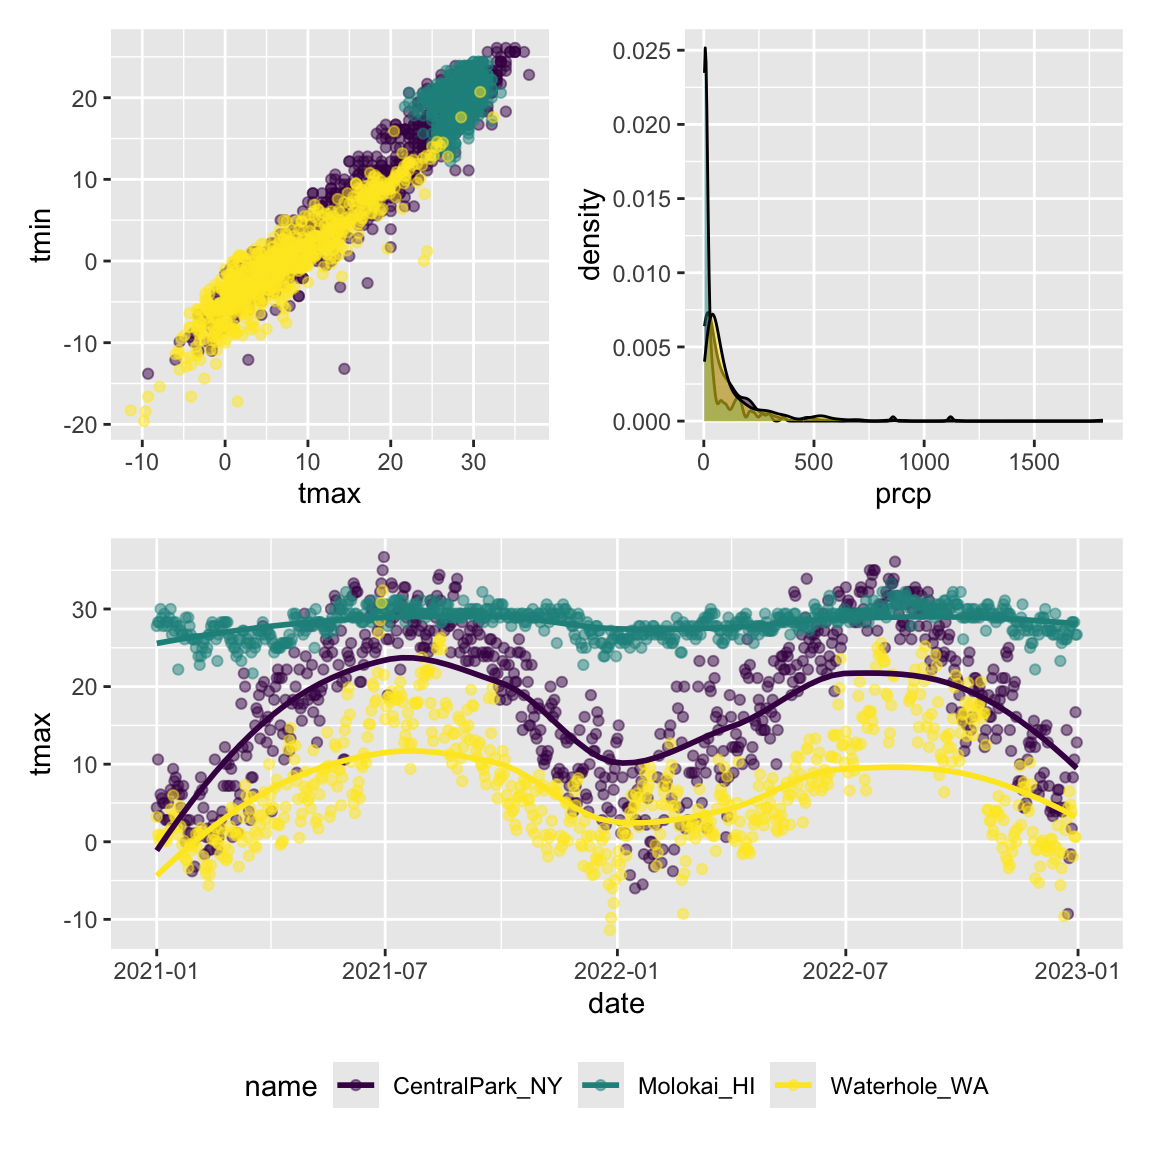
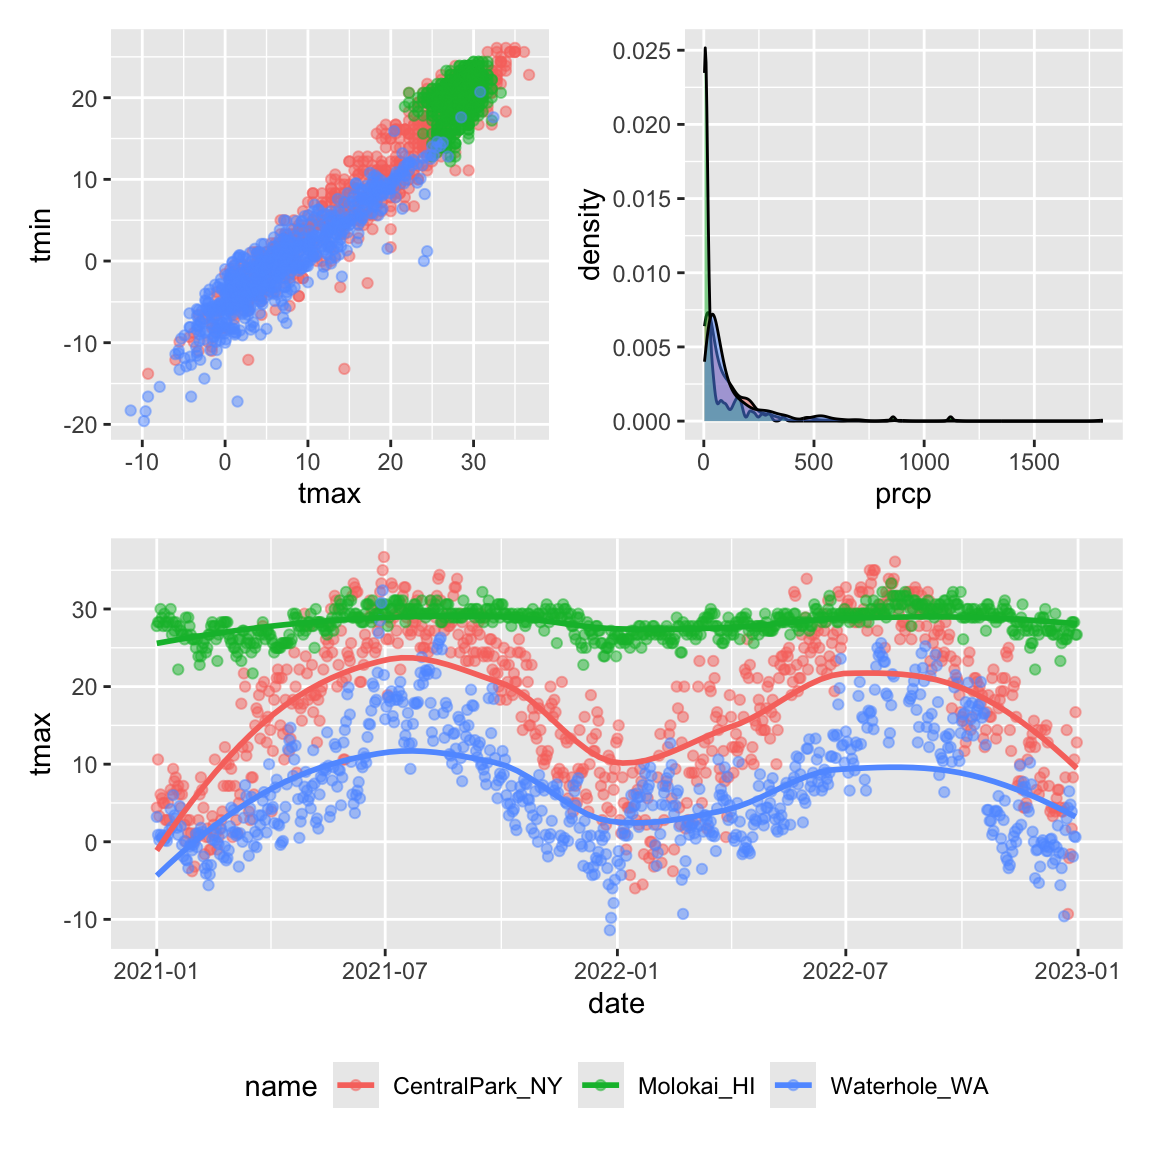
re-render so viridis isn't everywhere

diff --git a/visualization_pt2.html b/visualization_pt2.html
@@ -489,6 +489,16 @@ already I’ll add sub-directory called <code>data</code> and put <a
 href="./resources/data_import_examples.zip">these datasets</a> in
 there.</p>
 <pre class="r"><code>library(tidyverse)
+## ── Attaching core tidyverse packages ──────────────────────── tidyverse 2.0.0 ──
+## ✔ dplyr     1.2.1     ✔ readr     2.2.0
+## ✔ forcats   1.0.1     ✔ stringr   1.6.0
+## ✔ ggplot2   4.0.3     ✔ tibble    3.3.1
+## ✔ lubridate 1.9.5     ✔ tidyr     1.3.2
+## ✔ purrr     1.2.2     
+## ── Conflicts ────────────────────────────────────────── tidyverse_conflicts() ──
+## ✖ dplyr::filter() masks stats::filter()
+## ✖ dplyr::lag()    masks stats::lag()
+## ℹ Use the conflicted package (&lt;http://conflicted.r-lib.org/&gt;) to force all conflicts to become errors
 library(patchwork)</code></pre>
 <p>We’ll still work with NOAA weather data, which is loaded using the
 same code as in <a href="visualization_pt1.html">Visualization Pt
@@ -501,9 +511,7 @@ href="visualization_pt1.html">Visualization Pt 1</a>.</p>
 <pre class="r"><code>weather_df |&gt; 
   ggplot(aes(x = tmin, y = tmax)) + 
   geom_point(aes(color = name), alpha = .5)
-## Warning: Removed 17 rows containing
-## missing values or values
-## outside the scale range
+## Warning: Removed 17 rows containing missing values or values outside the scale range
 ## (`geom_point()`).</code></pre>
 <p><img src="visualization_pt2_files/figure-html/unnamed-chunk-4-1.png" alt="" width="90%" /></p>
 <div id="labels" class="section level3">
@@ -523,9 +531,7 @@ labels, plot titles, and captions, all of which can be controlled using
     color = &quot;Location&quot;,
     caption = &quot;Data from the rnoaa package&quot;
   )
-## Warning: Removed 17 rows containing
-## missing values or values
-## outside the scale range
+## Warning: Removed 17 rows containing missing values or values outside the scale range
 ## (`geom_point()`).</code></pre>
 <p><img src="visualization_pt2_files/figure-html/unnamed-chunk-5-1.png" alt="" width="90%" /></p>
 </div>
@@ -552,9 +558,7 @@ in <code>scale_x_*</code> and <code>scale_y_*</code> where
   scale_x_continuous(
     breaks = c(-15, 0, 15), 
     labels = c(&quot;-15º C&quot;, &quot;0&quot;, &quot;15&quot;))
-## Warning: Removed 17 rows containing
-## missing values or values
-## outside the scale range
+## Warning: Removed 17 rows containing missing values or values outside the scale range
 ## (`geom_point()`).</code></pre>
 <p><img src="visualization_pt2_files/figure-html/unnamed-chunk-6-1.png" alt="" width="90%" /></p>
 <p>There are a variety of other <code>scale_x_*</code> and
@@ -578,11 +582,9 @@ what I want.</p>
     trans = &quot;sqrt&quot;, 
     position = &quot;right&quot;)
 ## Warning in transformation$transform(x): NaNs produced
-## Warning in scale_y_continuous(trans = &quot;sqrt&quot;, position = &quot;right&quot;): sqrt transformation
-## introduced infinite values.
-## Warning: Removed 142 rows containing
-## missing values or values
-## outside the scale range
+## Warning in scale_y_continuous(trans = &quot;sqrt&quot;, position = &quot;right&quot;): sqrt
+## transformation introduced infinite values.
+## Warning: Removed 142 rows containing missing values or values outside the scale range
 ## (`geom_point()`).</code></pre>
 <p><img src="visualization_pt2_files/figure-html/unnamed-chunk-7-1.png" alt="" width="90%" /></p>
 <p>For many graph options there are several ways to produce the desired
@@ -606,9 +608,7 @@ color scale and the name in the plot legend.</p>
     color = &quot;Location&quot;,
     caption = &quot;Data from the rnoaa package&quot;) + 
   scale_color_hue(h = c(100, 300))
-## Warning: Removed 17 rows containing
-## missing values or values
-## outside the scale range
+## Warning: Removed 17 rows containing missing values or values outside the scale range
 ## (`geom_point()`).</code></pre>
 <p><img src="visualization_pt2_files/figure-html/unnamed-chunk-8-1.png" alt="" width="90%" /></p>
 <p>Trying to create your own color scheme usually doesn’t go well; I
@@ -633,9 +633,7 @@ works nicely!</p>
   )
 
 ggp_temp_plot
-## Warning: Removed 17 rows containing
-## missing values or values
-## outside the scale range
+## Warning: Removed 17 rows containing missing values or values outside the scale range
 ## (`geom_point()`).</code></pre>
 <p><img src="visualization_pt2_files/figure-html/unnamed-chunk-9-1.png" alt="" width="90%" /></p>
 <p>We used <code>discrete = TRUE</code> because the <code>color</code>
@@ -658,9 +656,7 @@ bottom to ensure the graphic takes up the available left-to-right
 space.</p>
 <pre class="r"><code>ggp_temp_plot + 
   theme(legend.position = &quot;bottom&quot;)
-## Warning: Removed 17 rows containing
-## missing values or values
-## outside the scale range
+## Warning: Removed 17 rows containing missing values or values outside the scale range
 ## (`geom_point()`).</code></pre>
 <p><img src="visualization_pt2_files/figure-html/unnamed-chunk-10-1.png" alt="" width="90%" /></p>
 <p>Quick tip: <code>legend.position = "none"</code> will remove the
@@ -672,18 +668,14 @@ recommend using a built-in theme. By default this is
 <pre class="r"><code>ggp_temp_plot + 
   theme_bw() + 
   theme(legend.position = &quot;bottom&quot;)
-## Warning: Removed 17 rows containing
-## missing values or values
-## outside the scale range
+## Warning: Removed 17 rows containing missing values or values outside the scale range
 ## (`geom_point()`).</code></pre>
 <p><img src="visualization_pt2_files/figure-html/unnamed-chunk-11-1.png" alt="" width="90%" /></p>
 <p>… and here’s <code>theme_classic()</code>:</p>
 <pre class="r"><code>ggp_temp_plot + 
   theme_classic() + 
   theme(legend.position = &quot;bottom&quot;)
-## Warning: Removed 17 rows containing
-## missing values or values
-## outside the scale range
+## Warning: Removed 17 rows containing missing values or values outside the scale range
 ## (`geom_point()`).</code></pre>
 <p><img src="visualization_pt2_files/figure-html/unnamed-chunk-12-1.png" alt="" width="90%" /></p>
 <p>… and, for some reason, here’s the Excel 2003 theme from <a
@@ -691,9 +683,7 @@ href="https://jrnold.github.io/ggthemes/"><code>ggthemes</code></a>:</p>
 <pre class="r"><code>ggp_temp_plot + 
   ggthemes::theme_excel() + 
   theme(legend.position = &quot;bottom&quot;)
-## Warning: Removed 17 rows containing
-## missing values or values
-## outside the scale range
+## Warning: Removed 17 rows containing missing values or values outside the scale range
 ## (`geom_point()`).</code></pre>
 <p><img src="visualization_pt2_files/figure-html/unnamed-chunk-13-1.png" alt="" width="90%" /></p>
 <p>Don’t use the Excel 2003 theme (the first two are fine, and
@@ -725,15 +715,10 @@ Solution
   viridis::scale_color_viridis(discrete = TRUE) + 
   theme_minimal() + 
   theme(legend.position = &quot;bottom&quot;)
-## `geom_smooth()` using method
-## = &#39;loess&#39; and formula = &#39;y ~
-## x&#39;
-## Warning: Removed 17 rows containing
-## non-finite outside the scale
-## range (`stat_smooth()`).
-## Warning: Removed 19 rows containing
-## missing values or values
-## outside the scale range
+## `geom_smooth()` using method = &#39;loess&#39; and formula = &#39;y ~ x&#39;
+## Warning: Removed 17 rows containing non-finite outside the scale range
+## (`stat_smooth()`).
+## Warning: Removed 19 rows containing missing values or values outside the scale range
 ## (`geom_point()`).</code></pre>
 <p><img src="visualization_pt2_files/figure-html/unnamed-chunk-14-1.png" alt="" width="90%" /></p>
 </details>
@@ -788,9 +773,7 @@ molokai_df =
 ggplot(data = molokai_df, aes(x = date, y = tmax, color = name)) + 
   geom_point() + 
   geom_line(data = central_park_df) 
-## Warning: Removed 1 row containing
-## missing values or values
-## outside the scale range
+## Warning: Removed 1 row containing missing values or values outside the scale range
 ## (`geom_point()`).</code></pre>
 <p><img src="visualization_pt2_files/figure-html/unnamed-chunk-16-1.png" alt="" width="90%" /></p>
 <p>More realistically, it’s sometimes necessary to overlay data
@@ -832,19 +815,12 @@ tmax_date_p =
   theme(legend.position = &quot;bottom&quot;)
 
 (tmax_tmin_p + prcp_dens_p) / tmax_date_p
-## Warning: Removed 17 rows containing
-## missing values or values
-## outside the scale range
+## Warning: Removed 17 rows containing missing values or values outside the scale range
 ## (`geom_point()`).
-## `geom_smooth()` using method
-## = &#39;loess&#39; and formula = &#39;y ~
-## x&#39;
-## Warning: Removed 17 rows containing
-## non-finite outside the scale
-## range (`stat_smooth()`).
-## Removed 17 rows containing
-## missing values or values
-## outside the scale range
+## `geom_smooth()` using method = &#39;loess&#39; and formula = &#39;y ~ x&#39;
+## Warning: Removed 17 rows containing non-finite outside the scale range
+## (`stat_smooth()`).
+## Removed 17 rows containing missing values or values outside the scale range
 ## (`geom_point()`).</code></pre>
 <p><img src="visualization_pt2_files/figure-html/unnamed-chunk-17-1.png" alt="" width="90%" /></p>
 <p>The package is already very helpful but is under active development –
@@ -875,9 +851,8 @@ variable using <code>forcats::fct_reorder</code>.</p>
   ggplot(aes(x = name, y = tmax)) + 
   geom_violin(aes(fill = name), color = &quot;blue&quot;, alpha = .5) + 
   theme(legend.position = &quot;bottom&quot;)
-## Warning: Removed 17 rows containing
-## non-finite outside the scale
-## range (`stat_ydensity()`).</code></pre>
+## Warning: Removed 17 rows containing non-finite outside the scale range
+## (`stat_ydensity()`).</code></pre>
 <p><img src="visualization_pt2_files/figure-html/unnamed-chunk-18-1.png" alt="" width="90%" /></p>
 <p>A second example reorders <code>name</code> according to
 <code>tmax</code> values in each name:</p>
@@ -886,21 +861,14 @@ variable using <code>forcats::fct_reorder</code>.</p>
   ggplot(aes(x = name, y = tmax)) + 
   geom_violin(aes(fill = name), color = &quot;blue&quot;, alpha = .5) + 
   theme(legend.position = &quot;bottom&quot;)
-## Warning: There was 1 warning in
-## `mutate()`.
-## ℹ In argument: `name =
-##   forcats::fct_reorder(name,
-##   tmax)`.
+## Warning: There was 1 warning in `mutate()`.
+## ℹ In argument: `name = forcats::fct_reorder(name, tmax)`.
 ## Caused by warning:
-## ! `fct_reorder()` removing 17
-## missing values.
-## ℹ Use `.na_rm = TRUE` to
-##   silence this message.
-## ℹ Use `.na_rm = FALSE` to
-##   preserve NAs.
-## Warning: Removed 17 rows containing
-## non-finite outside the scale
-## range (`stat_ydensity()`).</code></pre>
+## ! `fct_reorder()` removing 17 missing values.
+## ℹ Use `.na_rm = TRUE` to silence this message.
+## ℹ Use `.na_rm = FALSE` to preserve NAs.
+## Warning: Removed 17 rows containing non-finite outside the scale range
+## (`stat_ydensity()`).</code></pre>
 <p><img src="visualization_pt2_files/figure-html/unnamed-chunk-19-1.png" alt="" width="90%" /></p>
 <p>We’ll learn more about the <a
 href="http://forcats.tidyverse.org/index.html"><code>forcats</code></a>
@@ -928,9 +896,8 @@ directly:</p>
   geom_density(alpha = .5) + 
   facet_grid(~name) + 
   viridis::scale_fill_viridis(discrete = TRUE)
-## Warning: Removed 34 rows containing
-## non-finite outside the scale
-## range (`stat_density()`).</code></pre>
+## Warning: Removed 34 rows containing non-finite outside the scale range
+## (`stat_density()`).</code></pre>
 <p><img src="visualization_pt2_files/figure-html/unnamed-chunk-20-1.png" alt="" width="90%" /></p>
 <p>Our emphasis on data tidiness in previous examples is helpful in
 visualization. The code below imports and tidies the PULSE data, and
@@ -954,9 +921,8 @@ variable into a factor with an informative ordering.</p>
 
 ggplot(pulse_data, aes(x = visit, y = bdi)) + 
   geom_boxplot()
-## Warning: Removed 879 rows containing
-## non-finite outside the scale
-## range (`stat_boxplot()`).</code></pre>
+## Warning: Removed 879 rows containing non-finite outside the scale range
+## (`stat_boxplot()`).</code></pre>
 <p><img src="visualization_pt2_files/figure-html/unnamed-chunk-21-1.png" alt="" width="90%" /></p>
 <p>As a final example, we’ll revisit the FAS data. We’ve seen code for
 data import and organization and for joining the litters and pups data.
@@ -973,20 +939,25 @@ across values of dose category and treatment day.</p>
         1 ~ &quot;male&quot;, 
         2 ~ &quot;female&quot;))
 ## Rows: 313 Columns: 6
-## ── Column specification ──────
+## ── Column specification ────────────────────────────────────────────────────────
 ## Delimiter: &quot;,&quot;
 ## chr (1): Litter Number
 ## dbl (5): Sex, PD ears, PD eyes, PD pivot, PD walk
 ## 
 ## ℹ Use `spec()` to retrieve the full column specification for this data.
 ## ℹ Specify the column types or set `show_col_types = FALSE` to quiet this message.
+## Warning: There was 1 warning in `mutate()`.
+## ℹ In argument: `sex = case_match(sex, 1 ~ &quot;male&quot;, 2 ~ &quot;female&quot;)`.
+## Caused by warning:
+## ! `case_match()` was deprecated in dplyr 1.2.0.
+## ℹ Please use `recode_values()` instead.
 
 litter_data = 
   read_csv(&quot;./data/FAS_litters.csv&quot;, na = c(&quot;NA&quot;, &quot;.&quot;, &quot;&quot;)) |&gt;
   janitor::clean_names() |&gt;
   separate(group, into = c(&quot;dose&quot;, &quot;day_of_tx&quot;), sep = 3)
 ## Rows: 49 Columns: 8
-## ── Column specification ──────
+## ── Column specification ────────────────────────────────────────────────────────
 ## Delimiter: &quot;,&quot;
 ## chr (2): Group, Litter Number
 ## dbl (6): GD0 weight, GD18 weight, GD of Birth, Pups born alive, Pups dead @ ...
